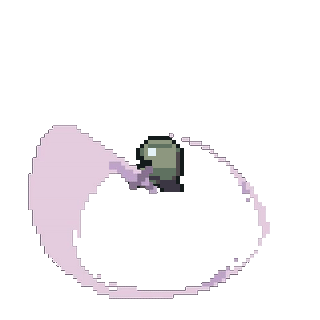
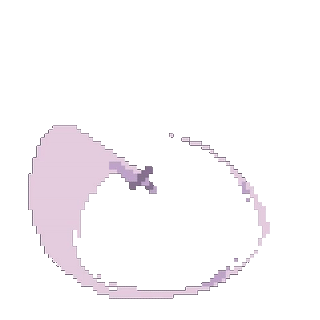
Added directional attacks, + hurtboxes now disappear

Changed region(s): [[0.4062, 0.4062, 0.5938, 0.625]]

diff --git a/settings.py b/settings.py
@@ -13,6 +13,7 @@ HEIGHT   = 720
 FPS      = 60
 TILESIZE = 64
 MM_COLOUR = "#121010"
+HURTBOX_DEBUG = False
 
 # Main Menu
 credits_info = [
@@ -181,12 +182,12 @@ attack_hurtbox_data = {
             6: [],
         },
         "sword_skill": {
-            0: [[64, 0, 64, 64]],
-            1: [[-64, 0, 64, 64], [-32, 64, 128, 64]],
-            2: [],
-            3: [],
-            4: [],
-            5: [],
+            0: [],
+            1: [[64, 0, 64, 64]],
+            2: [[-64, 0, 64, 64], [-32, 64, 128, 64]],
+            3: [[0, -64, 64, 64], [-64, -32, 64, 128]],
+            4: [[64, 0, 64, 64], [-32, -64, 128, 64]],
+            5: [[0, 64, 64, 64], [64, -32, 64, 128]],
             6: [],
             7: [],
             8: [],
@@ -210,6 +211,17 @@ attack_hurtbox_data = {
             5: [],
             6: [],
         },
+        "sword_skill": {
+            0: [],
+            1: [[-64, 0, 64, 64]],
+            2: [[64, 0, 64, 64], [-32, -64, 128, 64]],
+            3: [[0, 64, 64, 64], [64, -32, 64, 128]],
+            4: [[-64, 0, 64, 64], [-32, 64, 128, 64]],
+            5: [[0, -64, 64, 64], [-64, -32, 64, 128]],
+            6: [],
+            7: [],
+            8: [],
+        },
     },
     "left":{
         "sword_1": {
@@ -229,6 +241,17 @@ attack_hurtbox_data = {
             5: [],
             6: [],
         },
+        "sword_skill": {
+            0: [],
+            1: [[0, 64, 64, 64]],
+            2: [[0, -64, 64, 64], [-64, -32, 64, 128]],
+            3: [[64, 0, 64, 64], [-32, -64, 128, 64]],
+            4: [[0, 64, 64, 64], [64, -32, 64, 128]],
+            5: [[-64, 0, 64, 64], [-32, 64, 128, 64]],
+            6: [],
+            7: [],
+            8: [],
+        },
     },
     "right":{
         "sword_1": {
@@ -247,6 +270,17 @@ attack_hurtbox_data = {
             4: [],
             5: [],
             6: [],
+        },
+        "sword_skill": {
+            0: [],
+            1: [[0, -64, 64, 64]],
+            2: [[0, 64, 64, 64], [64, -32, 64, 128]],
+            3: [[-64, 0, 64, 64], [-32, 64, 128, 64]],
+            4: [[0, -64, 64, 64], [-64, -32, 64, 128]],
+            5: [[64, 0, 64, 64], [-32, -64, 128, 64]],
+            6: [],
+            7: [],
+            8: [],
         },
     },
 }

diff --git a/weapon.py b/weapon.py
@@ -4,19 +4,29 @@ from settings import *
 class Hurtboxes(pygame.sprite.Sprite):
     def __init__(self, groups, x, y, width, height):
         super().__init__(groups)
+        if HURTBOX_DEBUG: hitbox = "hitbox_debug"
+        else: hitbox = "hitbox_default"
+
         self.sprite_type = "attack"
         self.display_surface = pygame.display.get_surface()
-        self.image = pygame.transform.scale(pygame.image.load("assets/graphics/hitbox.png"), (width, height)).convert_alpha()
+        self.image = pygame.transform.scale(pygame.image.load(f"assets/graphics/{hitbox}.png"), (width, height)).convert_alpha()
         #self.rect = self.image.get_rect(topleft = (100, 100))
 
         self.rect = pygame.Rect(x, y, width, height)
+
+        self.speed = 0.20
+        self.index = 0
+        self.max_index = 1
         #pygame.draw.rect(self.display_surface, UI_BG_COLOUR, self.rect)
     
-    # def create_hurtboxes(self, x, y, width, height):
-    #     self.rect = pygame.Rect(x, y, width, height)
-    #     pygame.draw.rect(self.display_surface, UI_BG_COLOUR, self.rect)
+    def kill_hurtboxes_check(self):
+        self.index += self.speed
 
-# todo: could call class at level init and then call the above method to create hurtboxes
+        if self.index >= self.max_index:
+            self.kill()
+
+    def update(self):
+        self.kill_hurtboxes_check()
 
 class Weapon(pygame.sprite.Sprite):
     def __init__(self, player, groups):

diff --git a/level.py b/level.py
@@ -354,14 +354,6 @@ class Level:
         
         direction = self.player.status.split("_")[0]
         pos = self.player.rect.center
-        # if direction == "right":
-        #     pos = self.player.rect.center + pygame.math.Vector2(32, 0)
-        # elif direction == "left":
-        #     pos = self.player.rect.center + pygame.math.Vector2(-32, 0)
-        # elif direction == "up":
-        #     pos = self.player.rect.center + pygame.math.Vector2(0, -32)
-        # elif direction == "down":
-        #     pos = self.player.rect.center + pygame.math.Vector2(0, 32)
         self.animation_player.create_attack(attack_type, pos, [self.visible_sprites], "weapon", direction, self.create_attack_hurtboxes, self.destroy_attack_hurtboxes, 0.20)
 
     def create_magic(self, name, strength, cost):

diff --git a/player.py b/player.py
@@ -363,10 +363,11 @@ class Player(Entity):
                             #self.speed /= 2
 
                     # skill input
-                    # todo: skill effect
                     if keys[pygame.K_q] and not self.using_skill:
                         if self.stamina_target - self.stamina_skill_cost >= 0:
                             self.stamina_target -= self.stamina_skill_cost # Effect on stamina
+                            self.direction.x = 0
+                            self.direction.y = 0
 
                             self.attacking = True
                             self.attack_time = pygame.time.get_ticks()
